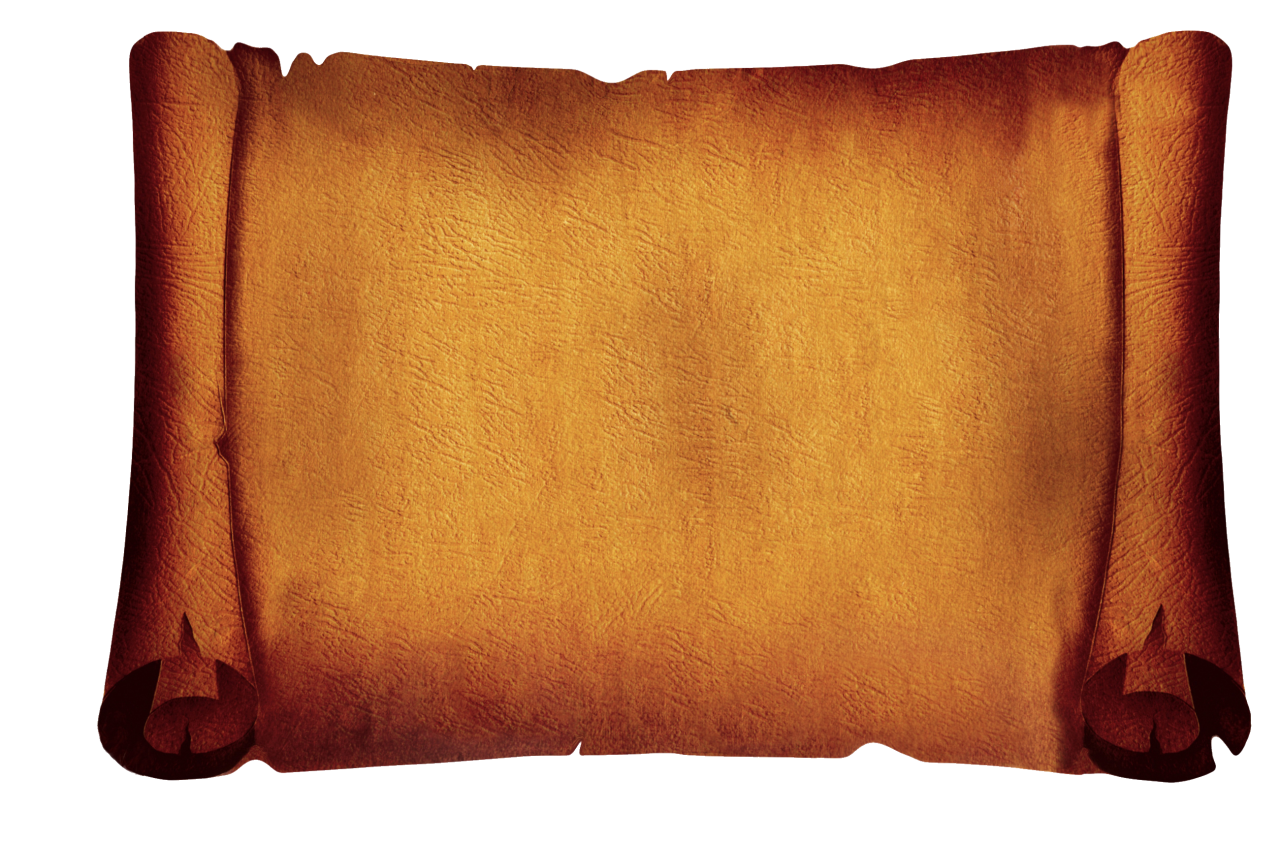
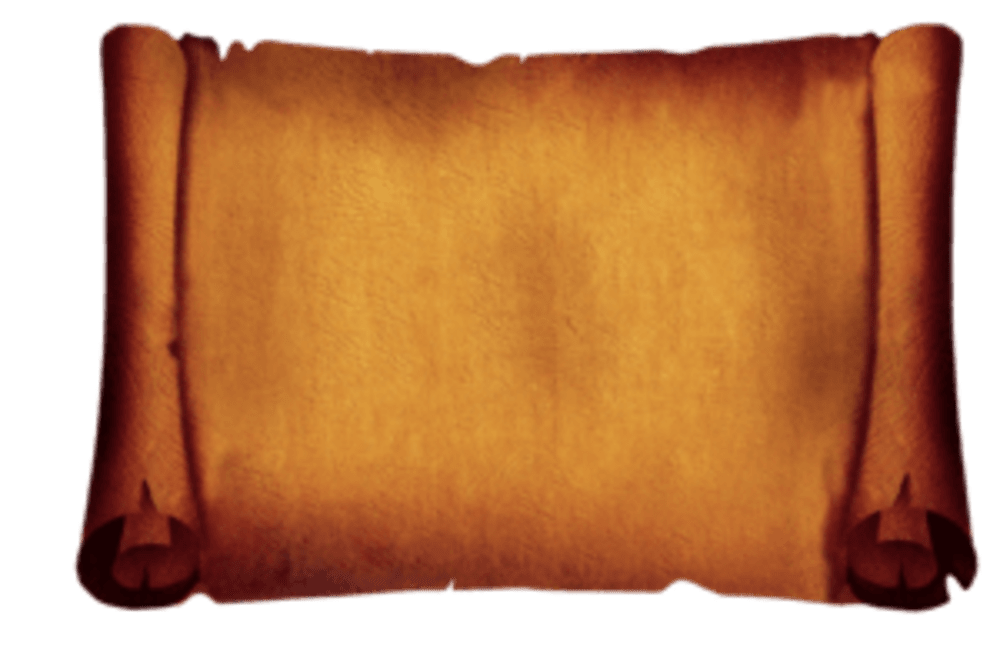
index

diff --git a/balti_zirgai/alynas/templates/alynas/index.html b/balti_zirgai/alynas/templates/alynas/index.html
@@ -3,18 +3,25 @@
 {% block title %}{% trans "welcome to"|capfirst %} {{ block.super }}{% endblock title %}
 {% block content %}
 <body>
-    <div class="container">
-    <a href="{% url 'light_beer'%}"><img src="{% static 'img/left.png' %}" alt="Left Image" class="side-image left-image"></a>
-    <div class="description">
+    <div class="image-container">
+        <div class"image">
+            <element id="left"><a href="{% url 'light_beer'%}"><img src="{% static 'img/left.png' %}" alt="Left Image"></a>
+        </div>
+        <div class="image">
+            <element id="bg"><img src="{% static "img/darkpapyrus.png" %}" alt="background">
+        </div>
+        <div class="description">
         <center><h1>Balti Žirgai Brewery - Beer Page</h1></center>
         <p>Welcome to Balti Žirgai Brewery - page dedicated to beer, spreading taste like a fairy tale and captivating like a painting.</p>
         <p>Here, amid the notes of flavor and traces of aroma, we embark on a beer journey crafted not only by the green fields but also by every golden drop sliding in the glass.</p>
         <p>Explore a world where beer is not just a taste but also tells a story. Balti Žirgai Brewery invites you to discover the mysterious world of various beer styles, where different aromas and flavors create a unique beer landscape.</p>
         <p>Join us on our journey where brewing masters and beer artisans travel through paths of tradition and innovation, and you can be part of this flavorful adventure.</p>
         <p>Welcome to Balti Žirgai Brewery - page, where the beer feast becomes not only a taste delight but also a cultural experience.</p>
+        </div>
+        <div class="image">
+            <element id="right"><a href="{% url 'dark_beer'%}"> <img src="{% static 'img/right.png' %}" alt="Right Image"></a>
+        </div>
     </div>
-    <a href="{% url 'dark_beer'%}"> <img src="{% static 'img/right.png' %}" alt="Right Image" class="side-image right-image"></a>
-</div>
 </body>
 <p><h2>{% trans "Currently in our White Knight we have" %}:</p></h2>
 <ul>

diff --git a/balti_zirgai/alynas/static/css/base_style_v2.css b/balti_zirgai/alynas/static/css/base_style_v2.css
@@ -52,70 +52,44 @@ p {
     padding: 0 1rem;
 }
 /* index Css */
-div.description {
-    position: relative;
-    margin: 20px auto;
-    padding: 10px;
-    border-radius: 10px;
-    text-align: justify;
-    line-height: 1.1;
-    right: 35%;
-    width: 160%;
-    margin-bottom: 5%;
+body {
+    font-family: Arial, sans-serif;
+    margin: 0;
+    padding: 0;
 }
-
-div.description::before {
-    content: '';
-    display: block;
-    position: absolute;
-    top: -3.6%;
-    width: 200%;
-    height: 115%;
-    background-image: url('/static/img/darkpapyrus.png');
-    background-repeat: no-repeat;
-    background-origin: border-box;
-    background-size: 100% 100%;
-    background-position: center top;
-    background-color: transparent;
-    border-radius: 10px;
-    z-index: -1;
-    left: -55%;
-}
-
-div.description h1 {
-    background-color: transparent; 
-    box-shadow: 0 3px 5px #00000033;
-    padding: 1rem;
-}
-.container {
+.image-container {
     display: flex;
-    max-width: 100%;
-    margin: 20px;
+    justify-content: center;
+    align-items: center; 
+    /*max-width: 100%; 
+    max-height: 100%;*/
+    margin-right: 10%;
+}
+#left img {
+    width: 300px;
+}
+#bg img {
+    width: 800px;
+    margin-left: 25%;
+}
+#right img {
+    width: 400px;
+    margin-left: 40%;
+}
+.image {
+    margin: 0 10px;
+}
+
+.description {
     position: relative;
-}
-
-.left-image {
-    order: -1;
-    width: 28%;
-    margin-top: 15%;
-}
-
-.right-image {
-    max-width: 100%;
-    order: 1;
-    width: 25%;
-    right: -1rem;
-    position: absolute;
-    margin-top: 10%;
-}
-
-/**/
-ul li.spacer {
-    flex-grow: 1
-}
-form p label {
-    min-width: 12rem;
-    display: inline-block;
+    margin-bottom: 7%;
+    right: 400px;
+    width: 100%;
+    height: 100%;
+    background-color: transparent !important;
+    padding: 10px;
+    z-index: 1;
+    line-height: 1;
 }
 
 /* Sign Up, Login Forms*/
